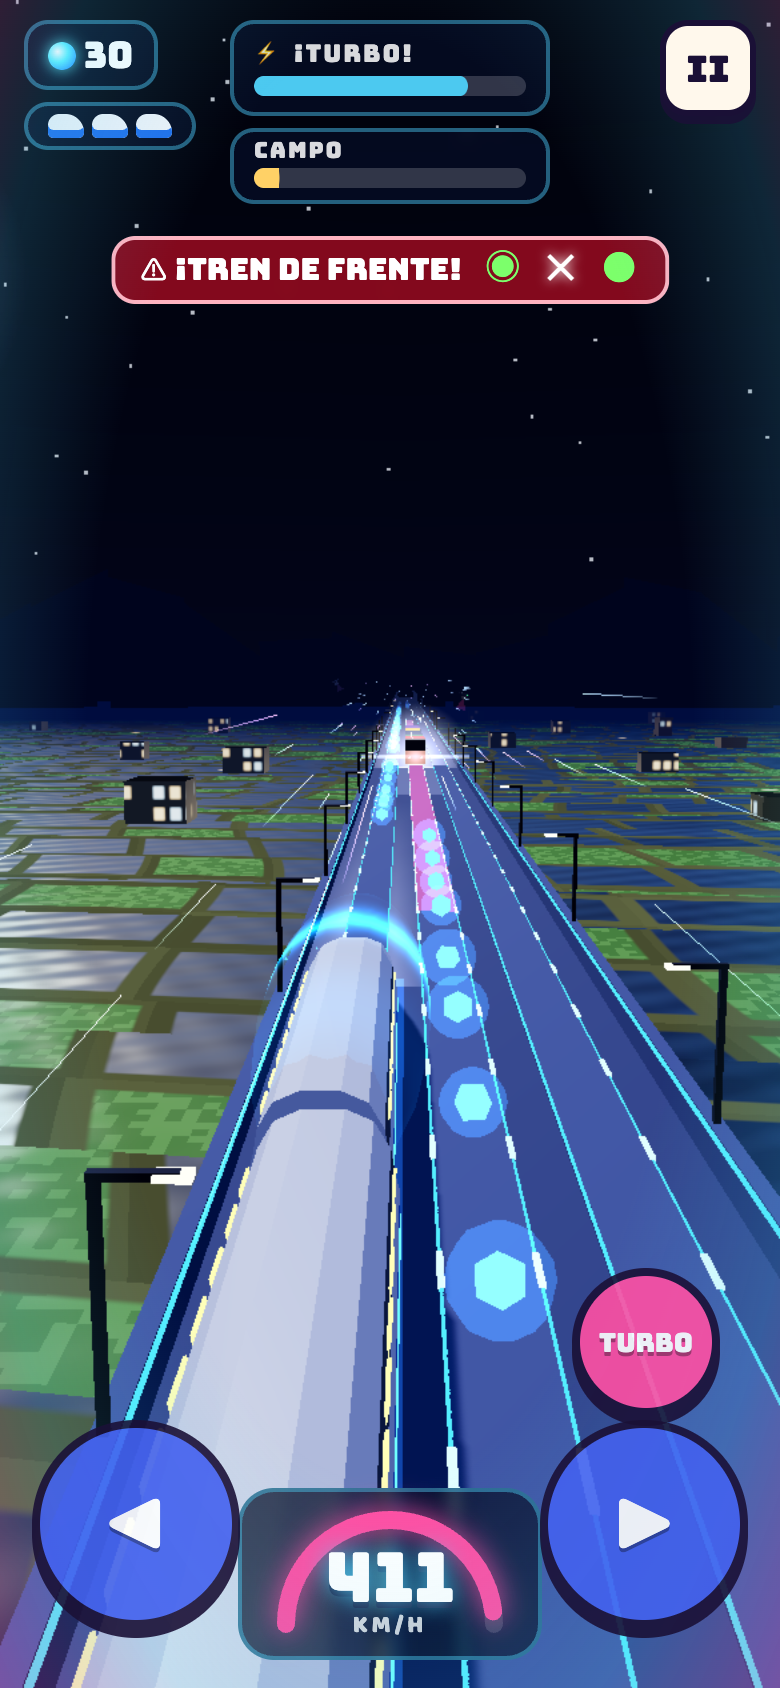
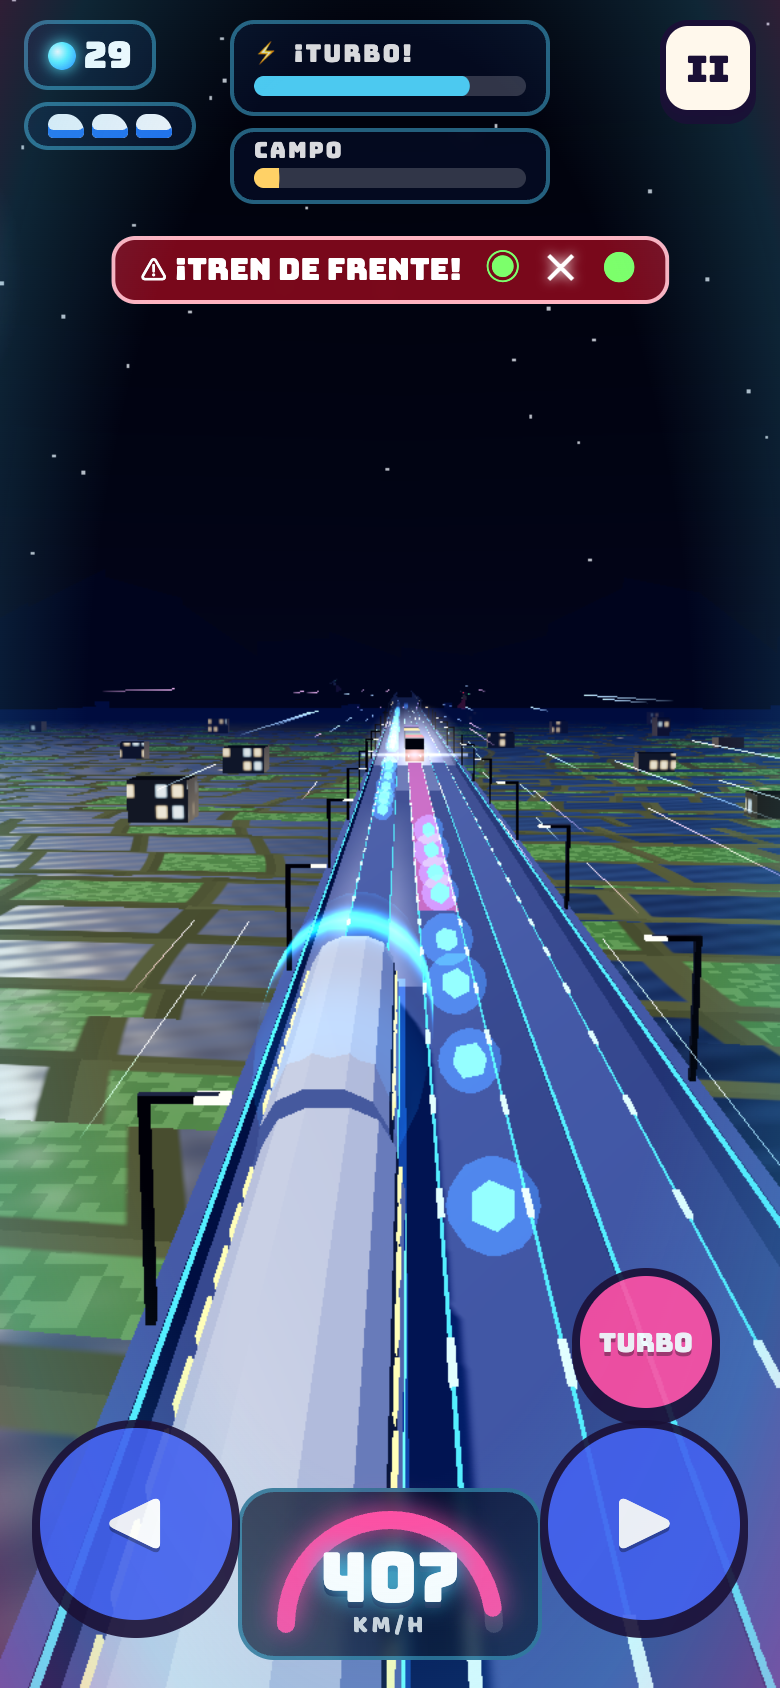
Shanghái ronda 3: qué falta para 3★, avisos de clímax legibles, llegada como cinemática

diff --git a/src/stages/shanghai/index.js b/src/stages/shanghai/index.js
@@ -226,7 +226,8 @@ export default {
         moreStats: { energia: st.orbs },
         shareText: `${st.orbs} orbes a ${Math.round(st.maxKmh)} km/h en el tren bala de Shanghái`,
         title: '¡Shanghái!',
-        lines: [st.stars === 3 ? 'Puntuales, cargados de energía y sin un rasguño.' : st.crashes ? 'Algún frenazo, pero los fuegos os esperaron.' : 'Sin chocar ni una vez. ¡Maquinistas de honor!'],
+        lines: [st.stars === 3 ? 'Puntuales, cargados de energía y sin un rasguño.' : st.crashes ? 'Algún frenazo, pero los fuegos os esperaron.' : 'Sin chocar ni una vez. ¡Maquinistas de honor!']
+          .concat(st.stars < 3 ? [`3★: como mucho 1 choque y 85\u00a0% de orbes (llevas ${st.crashes} ${st.crashes === 1 ? "choque" : "choques"} y ${Math.floor((100 * st.orbs) / total)}\u00a0%)`] : []),
         delay: 250,
       } : {
         win: false, stars: 0, score, time: st.t, stats,
@@ -290,7 +291,7 @@ export default {
       if (warnedId !== best) {
         warnedId = best;
         const an = hazards.find((h) => h.anuncio && !h.anunciado && h.s - st.s < 420 && h.s > st.s);
-        if (an) { an.anunciado = true; ctx.shout(an.anuncio, { size: 'peque', color: '#ff2d55', ms: 1600 }); }
+        if (an) { an.anunciado = true; ctx.shout(an.anuncio, { size: 'peque', cls: 'sh-clim', ms: 1800 }); audio.sfx('horn', { pitch: 0.8 }); }
         if (best.type === 'tren') audio.sfx('horn', { pitch: 0.55, vol: 0.9 });
         else audio.sfx('countdown', { pitch: 0.7, vol: 0.35 });
         if (!firstWarn) { firstWarn = true; ctx.shout('◀ ▶ ¡CAMBIA DE VÍA!', { size: 'peque', color: '#ffd166', ms: 1400 }); }
@@ -354,16 +355,18 @@ export default {
       if (!st.ultimo2 && st.s >= ULTIMO) {
         st.ultimo2 = true; st.tramo = 'ÚLTIMO TRAMO';
         if (st.danos > 0) { st.danos--; setTimeout(() => ctx.shout('🔧 ¡TREN REPARADO!', { size: 'peque', color: '#7cff6b', ms: 1200 }), 3800); }
-        ctx.shout('¡ÚLTIMO TRAMO!', { color: '#ffd166', ms: 1800 });
+        ctx.shout('¡ÚLTIMO TRAMO!', { cls: 'sh-clim', ms: 1800 });
         ctx.hud.el.classList.add('sh-ultimo');
         audio.sfx('horn', { pitch: 1.2 }); audio.sfx('bell'); engine.shake(0.3); hud.flash('rgba(255,209,102,.35)');
-        setTimeout(() => { if (st.fase === 'carrera') ctx.shout('ORBES DORADOS x3', { size: 'peque', color: '#ffd166', ms: 1500 }); }, 2000);
+        setTimeout(() => { if (st.fase === 'carrera') ctx.shout('ORBES DORADOS x3', { size: 'peque', cls: 'sh-clim', ms: 1500 }); }, 2000);
       }
       if (st.ultimo2 && st.s >= Z.BUND - 60) { st.ultimo2 = false; ctx.hud.el.classList.remove('sh-ultimo'); }
       // chispas mientras frena en seco
       if (st.invul > 1.2) sparks.emit(3, tmpV.set(st.x + (Math.random() - 0.5) * 2.6, DECK + 0.3, -st.s - Math.random() * 20), { colors: ['#ffd166', '#ff7b00'], vel: { x: 0, y: 3, z: -st.v * 0.9 }, velSpread: 4, life: 0.5, gravity: -10, size: 0.35 });
       if (st.s >= BRAKE_AT) {
         st.fase = 'llegada'; st.turbo = false; train.shield.visible = false;
+        if (ctx.cinematic) ctx.cinematic(true);
+        hideEnergyTip();
         st.brakeV = Math.max(st.v, 30); st.brakeD = Z.L - st.s;
         ctx.shout('¡ESTACIÓN BUND!', { color: '#ffd166' });
         audio.sfx('bell'); fw.setShow({ ...fw.show, rate: 1.4 });

diff --git a/src/stages/shanghai/estilo.js b/src/stages/shanghai/estilo.js
@@ -50,6 +50,7 @@ const CSS = `
 .hud.sh-ultimo::after { content: ''; position: fixed; inset: 0; pointer-events: none; box-shadow: inset 0 0 90px rgba(255, 176, 0, .45); animation: shultimo .5s infinite alternate; }
 @keyframes shultimo { from { opacity: .45; } to { opacity: 1; } }
 .tema-shanghai.sh-ultimo .hud-ruta { border-color: #ffd166; }
+#ui > .grito.sh-clim, .grito.sh-clim { color: #ffe08a; -webkit-text-stroke: 3px #1a1036; text-shadow: 0 4px 0 #1a1036, 0 0 22px rgba(255, 60, 90, .9), 0 0 6px #fff3c4; }
 `;
 
 export function injectStyle() {
